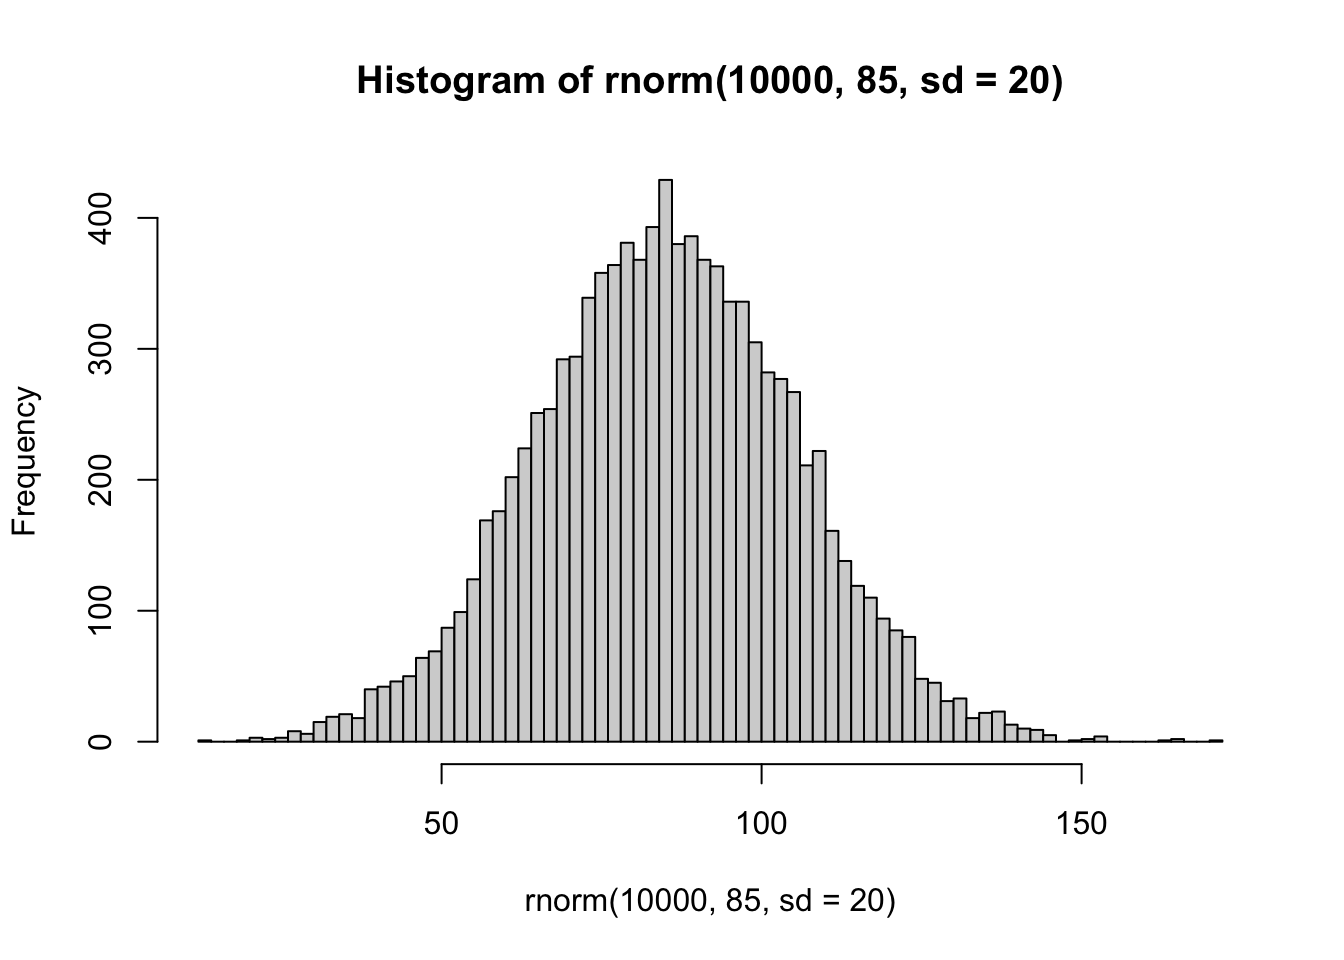
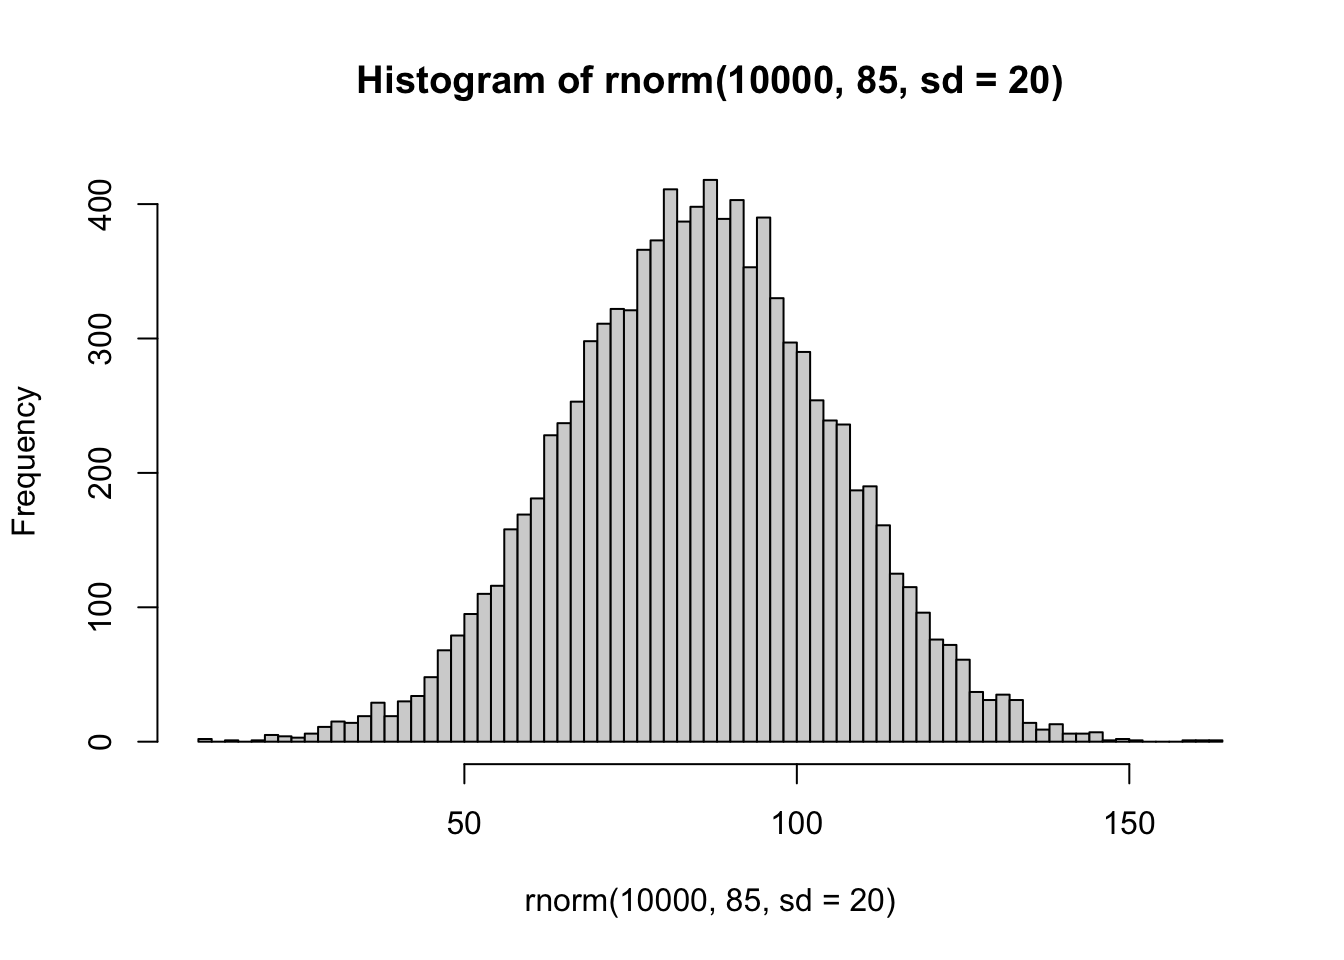
updated ldl with collider

diff --git a/docs/posts/2023-03-24-ldl/index.html b/docs/posts/2023-03-24-ldl/index.html
@@ -267,8 +267,8 @@ Attaching package: 'dplyr'</code></pre>
 <pre><code># A tibble: 2 × 5
   Estimate `Std. Error` `t value` `Pr(&gt;|t|)` measure
      &lt;dbl&gt;        &lt;dbl&gt;     &lt;dbl&gt;      &lt;dbl&gt; &lt;chr&gt;  
-1    1.02        0.0630      16.1   1.80e-58 y      
-2    0.669       0.0550      12.2   5.43e-34 y_obs  </code></pre>
+1    0.909       0.0632      14.4   7.62e-47 y      
+2    0.569       0.0552      10.3   6.46e-25 y_obs  </code></pre>
 </div>
 </div>
 <p>What happens if you put in an approximate adjustment of y_obs. e.g.&nbsp;the effect of the drug is relative (20% reduction), we could erroneously add an absolute value onto med users to try to adjust</p>
@@ -301,10 +301,68 @@ Attaching package: 'dplyr'</code></pre>
 <pre><code># A tibble: 4 × 5
   Estimate `Std. Error` `t value` `Pr(&gt;|t|)` measure     
      &lt;dbl&gt;        &lt;dbl&gt;     &lt;dbl&gt;      &lt;dbl&gt; &lt;chr&gt;       
-1    1.03        0.0632      16.4   4.22e-60 y           
-2    0.643       0.0551      11.7   1.98e-31 y_obs       
-3    1.03        0.0632      16.4   4.22e-60 y_adj_true  
-4    0.871       0.0540      16.1   2.04e-58 y_adj_approx</code></pre>
+1    0.936       0.0631      14.8   1.07e-49 y           
+2    0.602       0.0547      11.0   3.95e-28 y_obs       
+3    0.936       0.0631      14.8   1.07e-49 y_adj_true  
+4    0.789       0.0538      14.7   1.41e-48 y_adj_approx</code></pre>
+</div>
+</div>
+<p>Does collider bias have an impact? Statins are administered due to having a cardio event or being high risk e.g.&nbsp;due to family history. So there could be other non-LDL genetic factors that influence medication usage, and selecting or adjusting for medication usage could induce a collider that associates non-LDL genotypes with the adjusted LDL phenotype. e.g.&nbsp;simulate a large non-LDL factor that influences medication for illustration</p>
+<div class="cell">
+<div class="sourceCode cell-code" id="cb11"><pre class="sourceCode r code-with-copy"><code class="sourceCode r"><span id="cb11-1"><a href="#cb11-1" aria-hidden="true" tabindex="-1"></a>n <span class="ot">&lt;-</span> <span class="dv">1000000</span></span>
+<span id="cb11-2"><a href="#cb11-2" aria-hidden="true" tabindex="-1"></a>g <span class="ot">&lt;-</span> <span class="fu">rnorm</span>(n)</span>
+<span id="cb11-3"><a href="#cb11-3" aria-hidden="true" tabindex="-1"></a>g_other <span class="ot">&lt;-</span> <span class="fu">rnorm</span>(n)</span>
+<span id="cb11-4"><a href="#cb11-4" aria-hidden="true" tabindex="-1"></a>mean_ldl <span class="ot">&lt;-</span> <span class="dv">130</span></span>
+<span id="cb11-5"><a href="#cb11-5" aria-hidden="true" tabindex="-1"></a>sd_ldl <span class="ot">&lt;-</span> <span class="dv">20</span></span>
+<span id="cb11-6"><a href="#cb11-6" aria-hidden="true" tabindex="-1"></a>b_gy <span class="ot">&lt;-</span> <span class="dv">1</span></span>
+<span id="cb11-7"><a href="#cb11-7" aria-hidden="true" tabindex="-1"></a>b_omed <span class="ot">&lt;-</span> <span class="dv">1</span></span>
+<span id="cb11-8"><a href="#cb11-8" aria-hidden="true" tabindex="-1"></a>med_effect <span class="ot">&lt;-</span> <span class="fl">0.8</span></span>
+<span id="cb11-9"><a href="#cb11-9" aria-hidden="true" tabindex="-1"></a></span>
+<span id="cb11-10"><a href="#cb11-10" aria-hidden="true" tabindex="-1"></a>y <span class="ot">&lt;-</span> mean_ldl <span class="sc">+</span> g <span class="sc">*</span> b_gy <span class="sc">+</span> <span class="fu">rnorm</span>(n, <span class="at">sd=</span><span class="fu">sqrt</span>(sd_ldl<span class="sc">^</span><span class="dv">2</span><span class="sc">-</span>b_gy<span class="sc">^</span><span class="dv">2</span>))</span>
+<span id="cb11-11"><a href="#cb11-11" aria-hidden="true" tabindex="-1"></a>med <span class="ot">&lt;-</span> <span class="fu">rbinom</span>(n, <span class="dv">1</span>, <span class="fu">plogis</span>(<span class="fu">scale</span>(y) <span class="sc">+</span> g_other <span class="sc">*</span> b_omed))</span>
+<span id="cb11-12"><a href="#cb11-12" aria-hidden="true" tabindex="-1"></a>y_obs <span class="ot">&lt;-</span> y</span>
+<span id="cb11-13"><a href="#cb11-13" aria-hidden="true" tabindex="-1"></a>y_obs[<span class="fu">as.logical</span>(med)] <span class="ot">&lt;-</span> y_obs[<span class="fu">as.logical</span>(med)] <span class="sc">*</span> med_effect</span>
+<span id="cb11-14"><a href="#cb11-14" aria-hidden="true" tabindex="-1"></a></span>
+<span id="cb11-15"><a href="#cb11-15" aria-hidden="true" tabindex="-1"></a>y_adj_true <span class="ot">&lt;-</span> y_obs</span>
+<span id="cb11-16"><a href="#cb11-16" aria-hidden="true" tabindex="-1"></a>y_adj_true[<span class="fu">as.logical</span>(med)] <span class="ot">&lt;-</span> y_obs[<span class="fu">as.logical</span>(med)] <span class="sc">/</span> med_effect</span>
+<span id="cb11-17"><a href="#cb11-17" aria-hidden="true" tabindex="-1"></a></span>
+<span id="cb11-18"><a href="#cb11-18" aria-hidden="true" tabindex="-1"></a>y_adj_approx <span class="ot">&lt;-</span> y_obs</span>
+<span id="cb11-19"><a href="#cb11-19" aria-hidden="true" tabindex="-1"></a>y_adj_approx[<span class="fu">as.logical</span>(med)] <span class="ot">&lt;-</span> y_obs[<span class="fu">as.logical</span>(med)] <span class="sc">+</span> <span class="dv">20</span></span></code><button title="Copy to Clipboard" class="code-copy-button"><i class="bi"></i></button></pre></div>
+</div>
+<p>Result for LDL genotype</p>
+<div class="cell">
+<div class="sourceCode cell-code" id="cb12"><pre class="sourceCode r code-with-copy"><code class="sourceCode r"><span id="cb12-1"><a href="#cb12-1" aria-hidden="true" tabindex="-1"></a><span class="fu">rbind</span>(</span>
+<span id="cb12-2"><a href="#cb12-2" aria-hidden="true" tabindex="-1"></a>  <span class="fu">summary</span>(<span class="fu">lm</span>(y <span class="sc">~</span> g))<span class="sc">$</span>coef[<span class="dv">2</span>,],</span>
+<span id="cb12-3"><a href="#cb12-3" aria-hidden="true" tabindex="-1"></a>  <span class="fu">summary</span>(<span class="fu">lm</span>(y_obs <span class="sc">~</span> g))<span class="sc">$</span>coef[<span class="dv">2</span>,],</span>
+<span id="cb12-4"><a href="#cb12-4" aria-hidden="true" tabindex="-1"></a>  <span class="fu">summary</span>(<span class="fu">lm</span>(y_adj_true <span class="sc">~</span> g))<span class="sc">$</span>coef[<span class="dv">2</span>,],</span>
+<span id="cb12-5"><a href="#cb12-5" aria-hidden="true" tabindex="-1"></a>  <span class="fu">summary</span>(<span class="fu">lm</span>(y_adj_approx <span class="sc">~</span> g))<span class="sc">$</span>coef[<span class="dv">2</span>,]</span>
+<span id="cb12-6"><a href="#cb12-6" aria-hidden="true" tabindex="-1"></a>) <span class="sc">%&gt;%</span> <span class="fu">as_tibble</span>() <span class="sc">%&gt;%</span> <span class="fu">mutate</span>(<span class="at">measure=</span><span class="fu">c</span>(<span class="st">"y"</span>, <span class="st">"y_obs"</span>, <span class="st">"y_adj_true"</span>, <span class="st">"y_adj_approx"</span>))</span></code><button title="Copy to Clipboard" class="code-copy-button"><i class="bi"></i></button></pre></div>
+<div class="cell-output cell-output-stdout">
+<pre><code># A tibble: 4 × 5
+  Estimate `Std. Error` `t value` `Pr(&gt;|t|)` measure     
+     &lt;dbl&gt;        &lt;dbl&gt;     &lt;dbl&gt;      &lt;dbl&gt; &lt;chr&gt;       
+1    1.03        0.0200      51.5  0         y           
+2    0.680       0.0181      37.6  5.73e-309 y_obs       
+3    1.03        0.0200      51.5  0         y_adj_true  
+4    0.871       0.0172      50.5  0         y_adj_approx</code></pre>
+</div>
+</div>
+<p>Result for non-LDL genotype</p>
+<div class="cell">
+<div class="sourceCode cell-code" id="cb14"><pre class="sourceCode r code-with-copy"><code class="sourceCode r"><span id="cb14-1"><a href="#cb14-1" aria-hidden="true" tabindex="-1"></a><span class="fu">rbind</span>(</span>
+<span id="cb14-2"><a href="#cb14-2" aria-hidden="true" tabindex="-1"></a>  <span class="fu">summary</span>(<span class="fu">lm</span>(y <span class="sc">~</span> g_other))<span class="sc">$</span>coef[<span class="dv">2</span>,],</span>
+<span id="cb14-3"><a href="#cb14-3" aria-hidden="true" tabindex="-1"></a>  <span class="fu">summary</span>(<span class="fu">lm</span>(y_obs <span class="sc">~</span> g_other))<span class="sc">$</span>coef[<span class="dv">2</span>,],</span>
+<span id="cb14-4"><a href="#cb14-4" aria-hidden="true" tabindex="-1"></a>  <span class="fu">summary</span>(<span class="fu">lm</span>(y_adj_true <span class="sc">~</span> g_other))<span class="sc">$</span>coef[<span class="dv">2</span>,],</span>
+<span id="cb14-5"><a href="#cb14-5" aria-hidden="true" tabindex="-1"></a>  <span class="fu">summary</span>(<span class="fu">lm</span>(y_adj_approx <span class="sc">~</span> g_other))<span class="sc">$</span>coef[<span class="dv">2</span>,]</span>
+<span id="cb14-6"><a href="#cb14-6" aria-hidden="true" tabindex="-1"></a>) <span class="sc">%&gt;%</span> <span class="fu">as_tibble</span>() <span class="sc">%&gt;%</span> <span class="fu">mutate</span>(<span class="at">measure=</span><span class="fu">c</span>(<span class="st">"y"</span>, <span class="st">"y_obs"</span>, <span class="st">"y_adj_true"</span>, <span class="st">"y_adj_approx"</span>))</span></code><button title="Copy to Clipboard" class="code-copy-button"><i class="bi"></i></button></pre></div>
+<div class="cell-output cell-output-stdout">
+<pre><code># A tibble: 4 × 5
+  Estimate `Std. Error` `t value` `Pr(&gt;|t|)` measure     
+     &lt;dbl&gt;        &lt;dbl&gt;     &lt;dbl&gt;      &lt;dbl&gt; &lt;chr&gt;       
+1  -0.0168       0.0200    -0.841      0.401 y           
+2  -4.72         0.0175  -270.         0     y_obs       
+3  -0.0168       0.0200    -0.841      0.401 y_adj_true  
+4  -1.10         0.0172   -63.8        0     y_adj_approx</code></pre>
 </div>
 </div>
 <section id="summary" class="level3">
@@ -313,14 +371,13 @@ Attaching package: 'dplyr'</code></pre>
 <li>A relative reduction in observed LDL measures due to medication will lead to attenuated genetic effect estimates</li>
 <li>Adjustment to correct LDL values amongst medication users potentially resolves the issue</li>
 <li>Even an inaccurate adjustment can improve the estimate</li>
-<li>Oustanding questions
-<ul>
-<li>Is there a collider bias issue? Selecting non-medication users will induce collider bias. Similarly, adjusting medication users will potentially induce collider bias. (because medication could be influenced by other things that will become associated with genotype)</li>
-</ul></li>
+<li>Collider bias induces a negative association between unadjusted LDL and non-LDL genetic factors, but not a great deal of issue at the LDL locus</li>
+<li>Perfect adjustment of medication would resolve this problem</li>
+<li>Imperfect adjustment partially avoids the issue but some bias remains at the non-LDL genetic factor</li>
 </ul>
 <hr>
 <div class="cell">
-<div class="sourceCode cell-code" id="cb11"><pre class="sourceCode r code-with-copy"><code class="sourceCode r"><span id="cb11-1"><a href="#cb11-1" aria-hidden="true" tabindex="-1"></a><span class="fu">sessionInfo</span>()</span></code><button title="Copy to Clipboard" class="code-copy-button"><i class="bi"></i></button></pre></div>
+<div class="sourceCode cell-code" id="cb16"><pre class="sourceCode r code-with-copy"><code class="sourceCode r"><span id="cb16-1"><a href="#cb16-1" aria-hidden="true" tabindex="-1"></a><span class="fu">sessionInfo</span>()</span></code><button title="Copy to Clipboard" class="code-copy-button"><i class="bi"></i></button></pre></div>
 <div class="cell-output cell-output-stdout">
 <pre><code>R version 4.2.3 Patched (2023-03-15 r84020)
 Platform: aarch64-apple-darwin20 (64-bit)
@@ -331,7 +388,7 @@ BLAS:   /Library/Frameworks/R.framework/Versions/4.2-arm64/Resources/lib/libRbla
 LAPACK: /Library/Frameworks/R.framework/Versions/4.2-arm64/Resources/lib/libRlapack.dylib
 
 locale:
-[1] en_US.UTF-8/en_US.UTF-8/en_US.UTF-8/C/en_US.UTF-8/en_US.UTF-8
+[1] en_GB.UTF-8/en_GB.UTF-8/en_GB.UTF-8/C/en_GB.UTF-8/en_GB.UTF-8
 
 attached base packages:
 [1] stats     graphics  grDevices utils     datasets  methods   base     

diff --git a/docs/index.html b/docs/index.html
@@ -166,7 +166,7 @@ ul.task-list li input[type="checkbox"] {
 
 <div class="quarto-listing quarto-listing-container-default" id="listing-listing">
 <div class="list quarto-listing-default">
-<div class="quarto-post image-right" data-index="0" data-categories="" data-listing-date-sort="1679616000000" data-listing-file-modified-sort="1679676570644" data-listing-reading-time-sort="1.63">
+<div class="quarto-post image-right" data-index="0" data-categories="" data-listing-date-sort="1679616000000" data-listing-file-modified-sort="1680192630692" data-listing-reading-time-sort="2.51">
 <div class="thumbnail">
 <p><a href="./posts/2023-03-24-ldl/index.html"> <img src="https://www.researchgate.net/publication/358644627/figure/fig3/AS:1124416071188480@1645093090168/Distribution-of-LDL-cholesterol-measurements-in-VRONI-Distribution-of-LDL-cholesterol.png" class="thumnail-image"> </a></p>
 </div>
